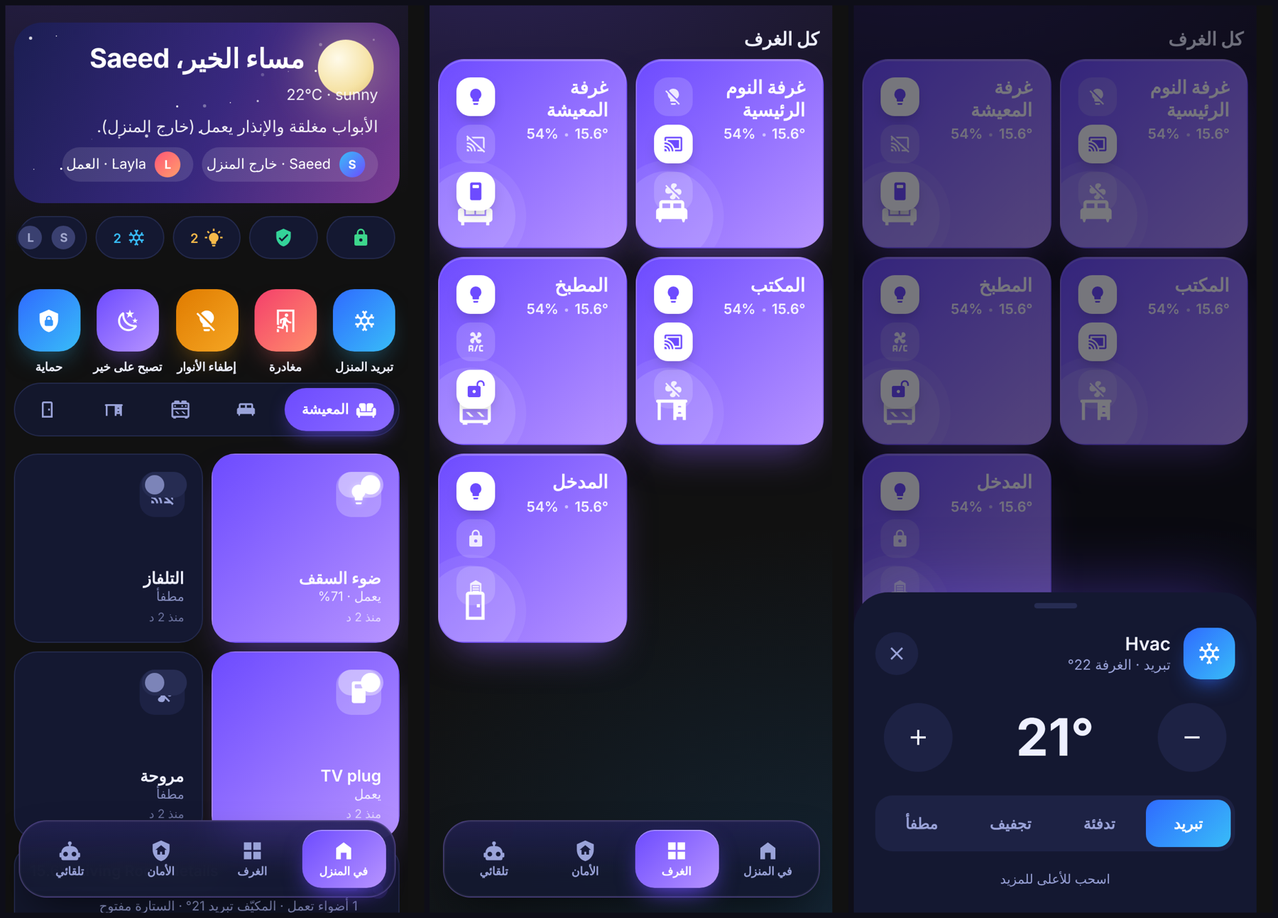
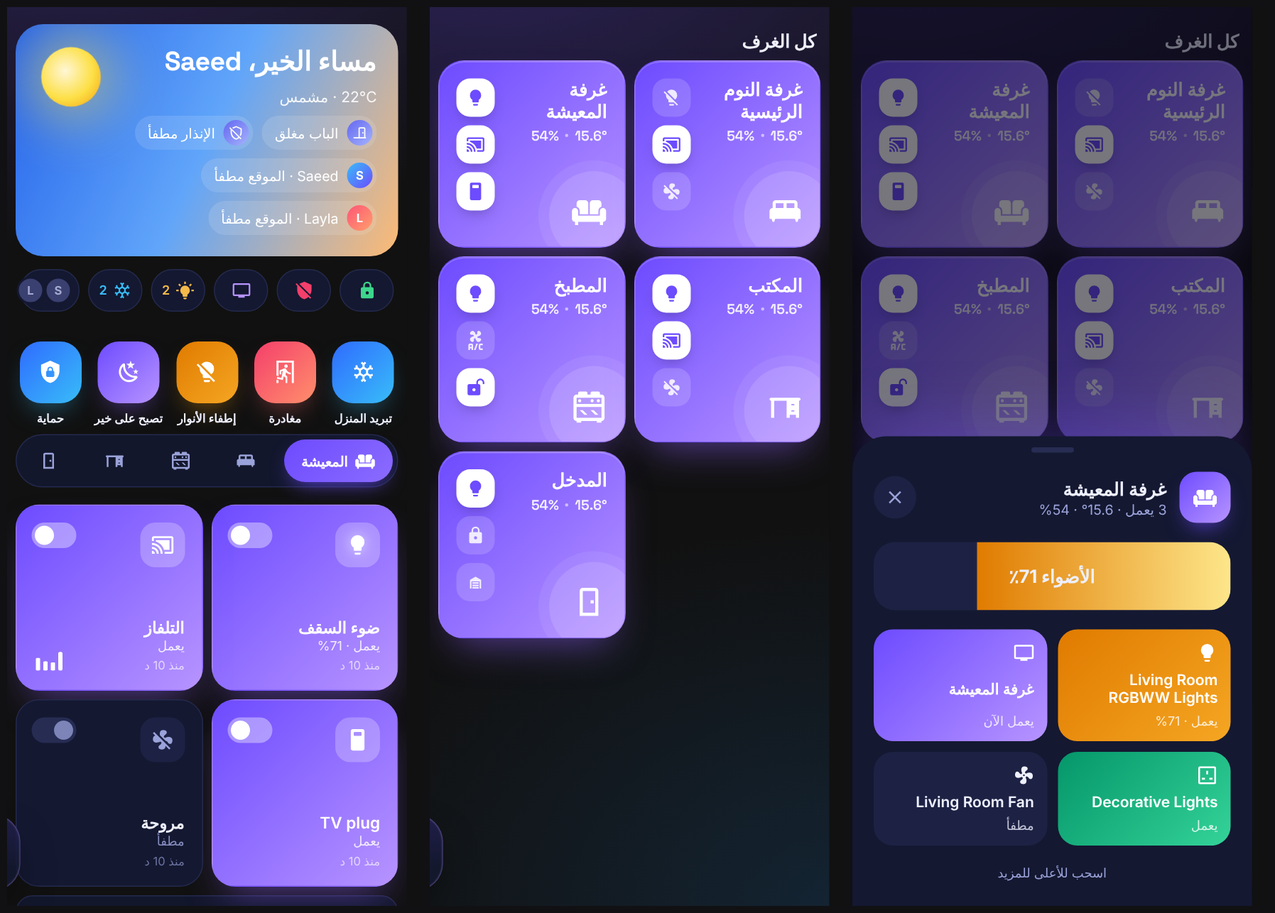
Right-to-left: mirror every card properly (fills, sliders, timelines, graphs, lock, swipes), more Arabic words, rules in tests/rtl.test.mjs; new Arabic picture

diff --git a/dist/roost-cards.js b/dist/roost-cards.js
@@ -3146,7 +3146,8 @@ class RoostRooms extends RoostBase {
           if (x0 == null) return;
           const dx = e.changedTouches[0].clientX - x0, dy = e.changedTouches[0].clientY - y0;
           x0 = null;
-          if (Math.abs(dx) > 60 && Math.abs(dy) < 40) this.go(this._active + (dx < 0 ? 1 : -1));
+          // in Arabic the next room is to the left, so swiping right brings it in
+          if (Math.abs(dx) > 60 && Math.abs(dy) < 40) this.go(this._active + ((rtlX(box, 0) === 1 ? dx > 0 : dx < 0) ? 1 : -1));
         }, { passive: true });
       }
     });
@@ -3418,7 +3419,7 @@ class RoostCurtain extends RoostBase {
     const trk = this.shadowRoot.querySelector(".trk");
     if (trk) {
       // drag along the bar to choose how far open; a tap while it moves stops it
-      const at = (e) => { const r = trk.getBoundingClientRect(); return Math.round(Math.max(0, Math.min(100, ((e.clientX - r.left) / (r.width || 1)) * 100)) / 5) * 5; };
+      const at = (e) => { const r = trk.getBoundingClientRect(); return Math.round(Math.max(0, Math.min(100, rtlX(trk, (e.clientX - r.left) / (r.width || 1)) * 100)) / 5) * 5; };
       let drag = null;
       trk.addEventListener("pointerdown", (e) => {
         const v = this.view(this.st());
@@ -4151,22 +4152,24 @@ class RoostPrayer extends ticking(RoostBase, 15000) {
     } catch (e) { return { day: 0, month: 0, year: 0, name: "", nameAr: "" }; }
   }
 
+  // Arabic prayer names when chosen, or when the whole dashboard is in Arabic (unless English names were chosen)
+  arNames() { const n = this._config.names; return n === "arabic" || (n !== "english" && n !== "both" && RoostLang.pick(this._hass, this._config) === "ar"); }
   label(k, date) {
     const c = this._config, fri = c.jumuah && k === "dhuhr" && date.getDay() === 5;
     const en = fri ? "Jumu'ah" : PRAYER_NAMES[k][0], ar = fri ? "الجمعة" : PRAYER_NAMES[k][1];
-    return c.names === "arabic" ? ar : c.names === "both" ? `${en} · ${ar}` : en;
+    return this.arNames() ? ar : c.names === "both" ? `${en} · ${ar}` : en;
   }
 
   clock(d) {
     const c = this._config;
     let s = d.toLocaleTimeString(c.hour24 ? "en-GB" : "en-US", { hour: "numeric", minute: "2-digit", hour12: !c.hour24 });
-    if (c.names === "arabic" && !c.hour24) s = s.replace("AM", "ص").replace("PM", "م");
+    if (this.arNames() && !c.hour24) s = s.replace("AM", "ص").replace("PM", "م");
     return c.numerals === "eastern" ? easternDigits(s) : s;
   }
 
   left(ms) {
     const m = Math.max(0, Math.round(ms / 60000)), h = Math.floor(m / 60), r = m % 60;
-    const ar = this._config.names === "arabic", s = ar ? (h ? `${h} س ${r} د` : `${r} دقيقة`) : h ? `${h}h ${r}m` : `${r} min`;
+    const ar = this.arNames(), s = ar ? (h ? `${h} س ${r} د` : `${r} دقيقة`) : h ? `${h}h ${r}m` : `${r} min`;
     return this._config.numerals === "eastern" ? easternDigits(s) : s;
   }
 
@@ -4187,7 +4190,7 @@ class RoostPrayer extends ticking(RoostBase, 15000) {
       prevAt = ri > 0 ? today[real[ri - 1]] : nextAt.toDateString() === now.toDateString() ? new Date(last.getTime() - 86400e3) : last;
     }
     const span = nextAt && prevAt ? Math.max(1, nextAt - prevAt) : 1, done = nextAt ? Math.min(1, Math.max(0, (now - prevAt) / span)) : 0;
-    const hj = this.hijri(now), hjNow = hj, ar = c.names === "arabic";
+    const hj = this.hijri(now), hjNow = hj, ar = this.arNames();
     const greg = now.toLocaleDateString(ar ? `ar-u-nu-${c.numerals === "eastern" ? "arab" : "latn"}` : "en-GB", { weekday: "long", day: "numeric", month: "long" });
     const hijriText = hj.year ? (ar ? `${easternDigits(hj.day)} ${hj.nameAr} ${easternDigits(hj.year)}` : `${hj.day} ${hj.name} ${hj.year}`) : "";
     const soon = nextAt && nextAt - now < 15 * 60000;
@@ -4780,7 +4783,7 @@ class RoostMedia extends RoostBase {
     const bar = root.querySelector(".vol");
     if (bar) {
       const set = (ev, done) => {
-        const r = bar.getBoundingClientRect(), f = Math.max(0, Math.min(1, (ev.clientX - r.left) / r.width));
+        const r = bar.getBoundingClientRect(), f = Math.max(0, Math.min(1, rtlX(bar, (ev.clientX - r.left) / r.width)));
         bar.querySelector(".f").style.width = `${(f * 100).toFixed(0)}%`;
         bar.querySelector(".v").textContent = `${Math.round(f * 100)}%`;
         if (done) this.call("media_player", "volume_set", { entity_id: vid, volume_level: Math.round(f * 100) / 100 });
@@ -5039,7 +5042,7 @@ class RoostRoom extends RoostBase {
       .l{font-size:12px;line-height:1.35;opacity:.75;margin-top:4px}
       .halo{position:absolute;left:-${Math.round(hsz * 0.16)}px;bottom:-${Math.round(hsz * 0.16)}px;width:${hsz}px;height:${hsz}px;border-radius:50%;display:flex;align-items:center;justify-content:center;
         background:${light ? "rgba(255,255,255,.18)" : `color-mix(in srgb, ${g[0]} 22%, transparent)`};color:${light || this.dark ? "#FFFFFF" : g[0]};box-shadow:0 0 0 ${Math.round(hsz * 0.12)}px ${light ? "rgba(255,255,255,.07)" : `color-mix(in srgb, ${g[0]} 9%, transparent)`}}
-      .halo ha-icon{--mdc-icon-size:${Math.round(hsz * 0.42)}px;transform:translate(${Math.round(hsz * 0.05)}px,-${Math.round(hsz * 0.05)}px)}
+      .halo ha-icon{--mdc-icon-size:${Math.round(hsz * 0.42)}px;position:relative;left:${Math.round(hsz * 0.05)}px;top:-${Math.round(hsz * 0.05)}px}
       .halo .ad{position:absolute;top:${Math.round(hsz * 0.14)}px;right:${Math.round(hsz * 0.14)}px;width:12px;height:12px;border-radius:50%;background:#10B981;border:2px solid ${light ? "rgba(255,255,255,.9)" : p.panel}}
       .halo .bd{position:absolute;top:${Math.round(hsz * 0.1)}px;right:${Math.round(hsz * 0.1)}px;min-width:20px;height:20px;padding:0 6px;box-sizing:border-box;border-radius:10px;background:#FFFFFF;color:${g[0]};font-style:normal;font-size:12px;font-weight:700;display:flex;align-items:center;justify-content:center;box-shadow:0 2px 6px rgba(0,0,0,.25)}
       .qs{display:flex;flex-direction:column;gap:8px;position:relative;z-index:1}
@@ -5476,7 +5479,7 @@ class RoostLight extends RoostBase {
         ${dims ? `<span class="pc num" data-tw="pc">${pct}%</span>` : ""}<span class="sw ${on ? "on" : ""}" role="switch" aria-checked="${on}"></span></div>
       ${dims ? `<div class="bar" role="slider" aria-valuenow="${fin(pct)}"><span class="f" data-bar="br" style="width:${fin(pct)}%"></span><ha-icon icon="mdi:brightness-6"></ha-icon></div>` : ""}
       ${(temps && c.show_presets) || (colours && c.show_colors) ? `<div class="chips">
-        ${temps && c.show_presets ? [["Warm", 2700, "#FFB45A"], ["Neutral", 4000, "#FFE7C2"], ["Cool", 6000, "#CFE6FF"]].map(([w, k, col]) => `<button data-k="${k}"><i style="background:${col}"></i>${w}</button>`).join("") : ""}
+        ${temps && c.show_presets ? [["Warm", 2700, "#FFB45A"], ["Neutral", 4000, "#FFE7C2"], ["Cool", 6000, "#CFE6FF"]].map(([w, k, col]) => `<button data-k="${k}"><i style="background:${col}"></i><span data-ar="${{ Warm: "دافئ", Neutral: "محايد", Cool: "بارد" }[w]}">${w}</span></button>`).join("") : ""}
         ${colours && c.show_colors ? ["#FF5A5F", "#FFB020", "#3DD68C", "#38BDF8", "#8B6CFF", "#F472B6"].map((col) => `<button class="dotc" data-rgb="${col}" aria-label="Colour"><i style="background:${col}"></i></button>`).join("") : ""}</div>` : ""}
     </div>`;
     const root = this.shadowRoot;
@@ -5491,7 +5494,7 @@ class RoostLight extends RoostBase {
     const bar = root.querySelector(".bar");
     if (bar) {
       const set = (ev, done) => {
-        const r = bar.getBoundingClientRect(), f = Math.max(0, Math.min(1, (ev.clientX - r.left) / r.width));
+        const r = bar.getBoundingClientRect(), f = Math.max(0, Math.min(1, rtlX(bar, (ev.clientX - r.left) / r.width)));
         bar.querySelector(".f").style.width = `${Math.round(f * 100)}%`;
         const pc = root.querySelector(".pc"); if (pc) pc.textContent = `${Math.round(f * 100)}%`;
         if (done) this.call("light", f < 0.01 ? "turn_off" : "turn_on", f < 0.01 ? { entity_id: c.entity } : { entity_id: c.entity, brightness_pct: Math.max(1, Math.round(f * 100)) });
@@ -5709,7 +5712,7 @@ class RoostGraph extends RoostBase {
       .top{display:flex;justify-content:space-between;align-items:baseline;gap:10px}
       .n{font-size:15px;font-weight:600}
       .v{font-size:24px;font-weight:700}
-      svg{display:block;width:100%;height:${H}px}
+      svg{display:block;width:100%;height:${H}px;/*mirror*/}
       .gw{position:relative}
       .nd{position:absolute;width:10px;height:10px;margin:-5px 0 0 -5px;border-radius:50%;background:${g[1]};box-shadow:0 0 0 3px ${p.panel.startsWith("rgba") ? (this.dark ? "#141831" : "#fff") : p.panel}}
       .nd i{position:absolute;inset:0;border-radius:50%;background:${g[1]};animation:roost-ping 2s ease-out infinite}
@@ -6025,10 +6028,10 @@ class RoostRemote extends RoostBase {
       .k.no{opacity:.28;cursor:default}
       .k.pw{width:48px;height:48px;flex:none;background:linear-gradient(135deg,#F43F6B,#FF8F6B);color:#fff;border-color:transparent;box-shadow:0 10px 22px -10px rgba(244,63,107,.7)}
       .pad{position:relative;width:min(190px,62cqw);aspect-ratio:1;border-radius:50%;background:${p.inset};border:1px solid ${p.border}}
-      .pad .k{position:absolute;background:transparent;border:0;transform:translate(-50%,-50%)}
-      .pad .k:active{transform:translate(-50%,-50%) scale(.88)}
-      .pad .up{left:50%;top:17%}.pad .down{left:50%;top:83%}.pad .left{left:17%;top:50%}.pad .right{left:83%;top:50%}
-      .pad .ok{left:50%;top:50%;width:38%;height:38%;background:linear-gradient(135deg,${g[0]},${g[1]});color:${g[3]};box-shadow:0 12px 26px -10px ${g[2]}}
+      .pad .k{/*ltr*/position:absolute;background:transparent;border:0;transform:translate(-50%,-50%)}
+      .pad .k:active{/*ltr*/transform:translate(-50%,-50%) scale(.88)}
+      .pad .up{/*ltr*/left:50%;top:17%}.pad .down{/*ltr*/left:50%;top:83%}.pad .left{/*ltr*/left:17%;top:50%}.pad .right{/*ltr*/left:83%;top:50%}
+      .pad .ok{/*ltr*/left:50%;top:50%;width:38%;height:38%;background:linear-gradient(135deg,${g[0]},${g[1]});color:${g[3]};box-shadow:0 12px 26px -10px ${g[2]}}
       .row{display:flex;gap:min(14px,3cqw);justify-content:center;width:100%;flex-wrap:wrap}
       .rock{display:flex;flex-direction:column;align-items:center;gap:4px;padding:6px;border-radius:999px;background:${p.inset};border:1px solid ${p.border}}
       .rock .k{background:transparent;border:0;width:min(48px,13cqw);height:min(48px,13cqw)}
@@ -9962,13 +9965,14 @@ class RoostLock extends RoostBase {
       .n{font-size:15px;font-weight:600}
       .w{font-size:20px;font-weight:700}
       .d{font-size:13px;color:${p.muted}}
-      .track{/*ltr*/direction:ltr;position:relative;height:58px;border-radius:999px;background:${p.inset};border:1px solid ${p.border};overflow:hidden;touch-action:none;user-select:none}
+      .track{position:relative;height:58px;border-radius:999px;background:${p.inset};border:1px solid ${p.border};overflow:hidden;touch-action:none;user-select:none}
       .hint{position:absolute;inset:0;display:flex;align-items:center;justify-content:center;font-size:13px;font-weight:600;color:${p.muted};animation:roost-breathe 2.2s ease-in-out infinite}
-      .hint{/*ltr*/padding-left:50px}
+      .hint{padding-left:50px}
       .short{display:none}
       @container (max-width: 250px){:host .long{display:none}:host .short{display:inline}}
-      .knob{/*ltr*/position:absolute;left:5px;top:5px;width:48px;height:48px;border-radius:50%;background:linear-gradient(135deg,${g[0]},${g[1]});color:${g[3]};display:flex;align-items:center;justify-content:center;cursor:grab;box-shadow:0 6px 16px -6px ${g[2]}}
+      .knob{position:absolute;left:5px;top:5px;width:48px;height:48px;border-radius:50%;background:linear-gradient(135deg,${g[0]},${g[1]});color:${g[3]};display:flex;align-items:center;justify-content:center;cursor:grab;box-shadow:0 6px 16px -6px ${g[2]}}
       .knob ha-icon{--mdc-icon-size:24px}
+      :host([dir=rtl]) .knob ha-icon{transform:scaleX(-1)}
       .wait{position:relative;height:58px;border-radius:999px;background:${p.inset};border:1px solid ${p.border};overflow:hidden;display:flex;align-items:center;justify-content:center;font-size:14px;font-weight:600;color:${p.muted}}
       .wait::before{content:"";position:absolute;top:0;bottom:0;width:40%;background:linear-gradient(90deg,transparent,${ACTIVE[2]},transparent);opacity:.5;animation:roost-sweep 1.2s linear infinite}
       @keyframes roost-sweep{from{left:-40%}to{left:100%}}
@@ -9984,12 +9988,13 @@ class RoostLock extends RoostBase {
     r.querySelector(".lockb")?.addEventListener("click", () => { this.vibrate(); this.call(cover ? "cover" : "lock", cover ? "close_cover" : "lock", { entity_id: c.entity }); });
     const track = r.querySelector(".track"), knob = r.querySelector(".knob");
     if (track && knob) {
-      let x0 = null, max = 0;
-      knob.addEventListener("pointerdown", (e) => { knob.setPointerCapture(e.pointerId); x0 = e.clientX; max = track.clientWidth - knob.clientWidth - 10; });
-      knob.addEventListener("pointermove", (e) => { if (x0 == null) return; knob.style.transform = `translateX(${Math.max(0, Math.min(max, e.clientX - x0))}px)`; });
+      // in Arabic the knob starts on the right and slides to the left
+      let x0 = null, max = 0, dir = 1;
+      knob.addEventListener("pointerdown", (e) => { knob.setPointerCapture(e.pointerId); x0 = e.clientX; max = track.clientWidth - knob.clientWidth - 10; dir = rtlX(track, 0) === 1 ? -1 : 1; });
+      knob.addEventListener("pointermove", (e) => { if (x0 == null) return; knob.style.transform = `translateX(${dir * Math.max(0, Math.min(max, dir * (e.clientX - x0)))}px)`; });
       knob.addEventListener("pointerup", (e) => {
         if (x0 == null) return;
-        const d = e.clientX - x0; x0 = null;
+        const d = dir * (e.clientX - x0); x0 = null;
         if (d >= max * 0.85) { this.vibrate(30); this.call(cover ? "cover" : "lock", cover ? "open_cover" : "unlock", { entity_id: c.entity }); }
         else { try { knob.animate([{ transform: knob.style.transform }, { transform: "translateX(0)" }], { duration: 250, easing: "ease-out" }); } catch (err) { /* jumps back */ } }
         knob.style.transform = "translateX(0)";
@@ -10291,9 +10296,20 @@ const AR_WORDS = {
   "Feed now": "أطعمه الآن", "Back to dock": "العودة للقاعدة", "Find it": "ابحث عنه", "Start cleaning": "ابدأ التنظيف", "Docked": "في القاعدة", "Cleaning": "ينظّف", "Returning": "يعود",
   "No reading": "لا توجد قراءة", "Not working right now": "لا يعمل حالياً", "Loading": "جارٍ التحميل", "Nothing planned": "لا شيء مخطط", "The shopping list is empty": "قائمة التسوق فارغة",
   "Volume": "الصوت", "Source": "المصدر", "Speed": "السرعة", "Swing": "تأرجح", "Mute": "كتم", "Previous": "السابق", "Next": "التالي",
+  "Too high": "مرتفع جداً", "Too low": "منخفض جداً", "same time": "التوقيت نفسه", "AM": "ص", "PM": "م", "SET TO": "مضبوط على", "Set to ": "مضبوط على", "Playing": "يعمل الآن", "Paused": "متوقف مؤقتاً",
+  "yesterday": "أمس", "Add an item": "أضف عنصراً", "All day": "طوال اليوم", "Fresh": "منعش", "Stale": "خانق", "Breeze": "نسيم", "Doors and alarm": "الأبواب والإنذار", "LAST 24 HOURS": "آخر 24 ساعة",
+  "Shopping list": "قائمة التسوق", "No tasks": "لا مهام", "No chores": "لا أعمال منزلية", "Slide to": "اسحب لـ", "Wind": "الرياح",
+  "See all": "عرض الكل", "No history yet": "لا يوجد سجل بعد", "Power consumption": "استهلاك الطاقة", "Energy": "الطاقة", "humidity": "الرطوبة", "Sunset": "الغروب", "Room on": "الغرفة تعمل",
+  "Slide to unlock ›››": "اسحب لفتح القفل ›››", "Slide to open ›››": "اسحب للفتح ›››", "Lowest": "الأدنى", "Highest": "الأعلى", "Next prayer": "الصلاة القادمة",
+  "Warm": "دافئ", "Neutral": "محايد", "Cool white": "بارد", "Comfortable": "مريح", "Comfy": "مريح", "Cold": "بارد", "Hot": "حار", "Humid": "رطب",
   "Language": "اللغة", "English": "English", "Arabic": "العربية", "Ready": "جاهز", "Done": "تم", "Upload": "رفع", "Download": "تنزيل", "Live": "مباشر", "Camera offline": "الكاميرا غير متصلة",
 };
+const AR_DAYS = "Monday|Tuesday|Wednesday|Thursday|Friday|Saturday|Sunday", AR_MONTHS = "January|February|March|April|May|June|July|August|September|October|November|December";
 const AR_PATTERNS = [
+  [new RegExp(`^(${AR_DAYS}) (\\d{1,2}) (${AR_MONTHS})$`), (m, d, n, mo) => `${AR_WORDS[d]} ${n} ${AR_WORDS[mo]}`], [new RegExp(`^(\\d{1,2}) (${AR_MONTHS})$`), (m, n, mo) => `${n} ${AR_WORDS[mo]}`],
+  [/^(Sunset|Sunrise) at (.+)$/, (m, a, t) => `${a === "Sunset" ? "الغروب" : "الشروق"} الساعة ${arWord(t) || t}`], [/^in (\d+)h (\d+)m$/, "بعد $1 س $2 د"], [/^room (.+)$/i, "الغرفة $1"], [/^at (\d.+)$/, (m, t) => `الساعة ${arWord(t) || t}`], [/^(\d+) devices?$/, "$1 أجهزة"], [/^([+−-]\d+)h$/, "$1 س"], [/^(\d+) people here$/, "$1 أشخاص هنا"], [/^1 person here$/, "شخص واحد هنا"],
+  [/^(\d+) to do$/, "$1 للإنجاز"], [/^Clear (\d+) ticked$/, "امسح $1 منجزة"], [/^Wind (.+)$/, "الرياح $1"], [/^Humidity (\d+)%$/, "الرطوبة $1٪"], [/^vs this time (.+)$/, "مقارنة بهذا الوقت $1"], [/^(\d+) open: (.+)$/, "$1 مفتوح: $2"], [/^(\d+) min$/, "$1 د"], [/^(\d+)h (\d+)m$/, "$1 س $2 د"], [/^Last (\d+) h$/, "آخر $1 س"], [/^in (\d+)h$/, "بعد $1 س"], [/^in (\d+)m$/, "بعد $1 د"],
+  [/^(\d+(?:\.\d+)?)% humidity$/, "الرطوبة $1٪"],
   [/^for (\d+) min$/, "منذ $1 د"], [/^for (\d+)h(?: (\d+)m)?$/, (m, h, mi) => `منذ ${h} س${mi ? ` ${mi} د` : ""}`], [/^for (\d+) days?$/, "منذ $1 يوم"],
   [/^(\d+) min ago$/, "قبل $1 د"], [/^(\d+) h ago$/, "قبل $1 س"], [/^(\d+) days? ago$/, "قبل $1 يوم"], [/^Since (.+) ago$/, (m, x) => `منذ ${arWord(x)}`], [/^Since (.+)$/, (m, x) => `منذ ${arWord(x)}`],
   [/^(\d+) lights? on$/, "$1 أضواء تعمل"], [/^(\d+) lights? are on$/, "$1 أضواء تعمل"], [/^(\d+) on$/, "$1 يعمل"], [/^(\d+) open$/, "$1 مفتوح"], [/^(\d+) home$/, "$1 في المنزل"], [/^(.+) is unlocked$/, "$1 غير مقفل"], [/^(\d+) more$/, "$1 أخرى"], [/^(\d+) of (\d+) on$/, "$1 من $2 يعمل"],
@@ -10305,6 +10321,7 @@ const AR_PATTERNS = [
   [/^(.+) is open$/, "$1 مفتوح"], [/^(.+) is on$/, "$1 يعمل"], [/^(\d+) doors or windows are open$/, "$1 أبواب أو نوافذ مفتوحة"], [/^(\d+) batteries are low$/, "$1 بطاريات منخفضة"], [/^(.+): battery low$/, "$1: البطارية منخفضة"],
   [/^Last ran (.+)$/, (m, x) => `آخر تشغيل ${arWord(x)}`], [/^(\d+(?:\.\d+)?)° outside$/, "$1° في الخارج"], [/^And it is (.+) outside$/, "والحرارة $1 في الخارج"], [/^At night$/, "في الليل"],
   [/(\d+(?:[.,]\d+)?) ?(AM|PM)$/, (m, t, ap) => `${t} ${ap === "AM" ? "ص" : "م"}`],
+  [/^([A-Z][A-Za-z ]+) (on|off|open|closed)$/, (m, x, st) => `${arWord(x) || x} ${AR_WORDS[st.charAt(0).toUpperCase() + st.slice(1)]}`],
 ];
 function arWord(x) {
   const s = String(x).trim(); if (!s) return x;
@@ -10314,6 +10331,8 @@ function arWord(x) {
   for (const [re, to] of AR_PATTERNS) if (re.test(s)) return s.replace(re, to);
   return null;
 }
+// a slider read in right-to-left: the start is on the right, so the finger's place is counted from the right
+const rtlX = (el, x) => { try { return getComputedStyle(el).direction === "rtl" ? 1 - x : x; } catch (e) { return x; } };
 const RoostLang = {
   pick(hass, cfg) {
     let v = cfg && cfg.language && cfg.language !== "auto" ? cfg.language : null;
@@ -10325,8 +10344,9 @@ const RoostLang = {
   line(t) {
     if (!/[A-Za-z]/.test(t)) return t;
     const lead = t.match(/^\s*/)[0], tail = t.match(/\s*$/)[0], core = t.trim();
-    const whole = arWord(core); if (whole) return lead + whole + tail;
+    // a line of parts (Monday 16 November · 3:20 PM) is translated part by part
     if (core.includes(" · ")) { const parts = core.split(" · ").map((x) => arWord(x) || x); return lead + parts.join(" · ") + tail; }
+    const whole = arWord(core); if (whole) return lead + whole + tail;
     return t;
   },
   apply(el, root, cfg) {
@@ -10336,12 +10356,14 @@ const RoostLang = {
     el.style.direction = "rtl"; el.setAttribute("dir", "rtl"); el.setAttribute("lang", "ar");
     if (!r) return;
     this.mirror(r, true);
+    this.flipMarks(r);
     const east = this.eastern(cfg || el._config), digits = (s) => (east ? s.replace(/[0-9]/g, (d) => "٠١٢٣٤٥٦٧٨٩"[d]).replace(/%/g, "٪") : s);
     const walk = document.createTreeWalker(r, NodeFilter.SHOW_TEXT, { acceptNode: (n) => (n.parentNode && /^(STYLE|SCRIPT)$/.test(n.parentNode.nodeName) ? NodeFilter.FILTER_REJECT : NodeFilter.FILTER_ACCEPT) });
     const nodes = []; while (walk.nextNode()) nodes.push(walk.currentNode);
     // a number with its unit (1240 L, 214 km, 3 h 57 min) keeps its order inside right-to-left text
     const iso = (v) => (/^\s*[-−+]?[\d٠-٩]/.test(v) && /[A-Za-zµ]/.test(v) && !/[\u0600-\u06FF\u2066]/.test(v) ? `\u2066${v}\u2069` : v);
-    for (const n of nodes) { const v = iso(digits(this.line(n.nodeValue))); if (v !== n.nodeValue) n.nodeValue = v; }
+    // a word with its own Arabic for this place (data-ar) uses it: "Cool" for a light is بارد, not تبريد
+    for (const n of nodes) { const own = n.parentNode?.dataset?.ar; const v = own || iso(digits(this.line(n.nodeValue))); if (v !== n.nodeValue) n.nodeValue = v; }
     r.querySelectorAll("[aria-label],[title],[placeholder]").forEach((x) => { for (const a of ["aria-label", "title", "placeholder"]) { const v = x.getAttribute(a); if (v) { const t = this.line(v); if (t !== v) x.setAttribute(a, t); } } });
   },
   // right to left: everything placed by a side (a corner button, a badge, a bar) moves to the other side, so the
@@ -10353,21 +10375,24 @@ const RoostLang = {
     return css.replace(/([^{}]*)\{([^{}]*)\}/g, (m, sel, body) => {
       // marked to stay as drawn (a slide-to-unlock track, things placed by the card's own sums)
       if (/\/\*ltr\*\//.test(sel + body)) return m;
+      // a drawing that runs along time (a graph's curve) is drawn mirrored, so it starts on the right
+      if (/\/\*mirror\*\//.test(body)) return `${sel}{${body.replace("/*mirror*/", "transform:scaleX(-1);")}}`;
       const sides = [...body.matchAll(/(?:^|[;\s])(left|right)\s*:\s*([^;]+)/g)];
       // something centred stays centred
       if (sides.some((x) => /^50%/.test(x[2].trim()))) return m;
       // placed by the card's own sums (no side here): leave it
       if (!sides.length && /position\s*:\s*(absolute|fixed)/.test(body)) return m;
       let b = body;
-      // one side only, at 0: a fill growing from that edge (bars and sliders follow the finger): it stays
-      if (!(sides.length === 1 && /^0(px)?\s*(!important)?$/.test(sides[0][2].trim())) && sides.length) {
+      // everything placed from a side moves to the other side, fills included: in Arabic a bar fills from the right
+      // and its slider is read from the right too (see rtlX)
+      if (sides.length) {
         b = b.replace(/(^|[;\s])(left|right)(\s*:)/g, (q, a, side, c) => a + swap(side) + c)
           // a knob that slides along from its side slides the other way
           .replace(/translateX\((-?)(\d+(?:\.\d+)?px)\)/g, (q, neg, v) => `translateX(${neg ? "" : "-"}${v})`);
       }
       // a switch that is on: its knob slides the other way
       if (!sides.length && /\.on\b/.test(sel) && /transform\s*:\s*translateX\(\d+(?:\.\d+)?px\)\s*(;|$)/.test(b.trim() + ";")) b = b.replace(/translateX\((\d+(?:\.\d+)?px)\)/g, "translateX(-$1)");
-      b = b.replace(/(margin|padding|border)-(left|right)/g, (q, a, side) => `${a}-${swap(side)}`)
+      b = b.replace(/linear-gradient\(90deg/g, "linear-gradient(270deg").replace(/(margin|padding|border)-(left|right)/g, (q, a, side) => `${a}-${swap(side)}`)
         .replace(/border-(top|bottom)-(left|right)-radius/g, (q, v, side) => `border-${v}-${swap(side)}-radius`)
         .replace(/(text-align|float)\s*:\s*(left|right)/g, (q, a, side) => `${a}:${swap(side)}`)
         .replace(/(^|[;\s])(margin|padding)\s*:\s*([^;!]+?)(\s*!important)?(?=;|$)/g, (q, a, k, v, imp) => four(v, (x) => `${a}${k}:${x[0]} ${x[3]} ${x[2]} ${x[1]}${imp || ""}`) || q)
@@ -10382,6 +10407,21 @@ const RoostLang = {
       if (st.__roostLtr !== undefined && now !== st.__roostRtl) st.__roostLtr = undefined; // the card wrote new styles
       if (on) { if (st.__roostLtr === undefined) { st.__roostLtr = now; st.__roostRtl = this.flipCss(now); } if (st.textContent !== st.__roostRtl) st.textContent = st.__roostRtl; }
       else if (st.__roostLtr !== undefined) { if (st.textContent !== st.__roostLtr) st.textContent = st.__roostLtr; st.__roostLtr = undefined; }
+    });
+  },
+  // Marks placed along a scale from its start (a prayer or day timeline, a good-range bar) carry their place in their
+  // own style as left: N%. In Arabic the scale starts on the right, so each mark moves to right: N%; a mark centred on
+  // its place (translateX(-50%)) is centred from the other side.
+  flipMarks(r) {
+    r.querySelectorAll('[style*="left:"]').forEach((n) => {
+      const v = n.style.left;
+      if (!/%$/.test(v) || n.style.right) return;
+      const cs = getComputedStyle(n), ml = cs.marginLeft, mr = cs.marginRight;
+      n.style.left = ""; n.style.right = v;
+      if (ml !== mr) { n.style.marginLeft = mr; n.style.marginRight = ml; } // a mark centred with a margin stays centred
+      const t = getComputedStyle(n).transform;
+      const m = t && t !== "none" ? t.match(/matrix\(([^)]+)\)/) : null;
+      if (m) { const tx = Number(m[1].split(",")[4]); if (tx < 0 && Math.abs(Math.abs(tx) - n.offsetWidth / 2) < 2) n.style.transform = "translateX(50%)"; }
     });
   },
   cards: new Set(),
@@ -10755,7 +10795,7 @@ const RoostSheet = {
       .seg{display:grid;gap:4px;padding:4px;border-radius:16px;background:${p.inset}}
       .seg button{height:44px;border-radius:12px;border:0;background:transparent;color:${p.muted};font-size:14px;font-weight:600}
       .seg button.on{background:linear-gradient(135deg,${g[0]},${g[1]});color:#FFFFFF}
-      .sens{display:flex;align-items:flex-end;gap:16px}.sens svg{flex:1;height:60px;min-width:0}
+      .sens{display:flex;align-items:flex-end;gap:16px}.sens svg{flex:1;height:60px;min-width:0;/*mirror*/}
       .note{font-size:14px;color:${p.muted}}
       .mt{font-size:15px;font-weight:600;text-align:center}.mt span{color:${p.muted};font-weight:500}
       .more{border:0;background:none;color:${p.muted};font-size:12px;padding:0;align-self:center}
@@ -10767,7 +10807,7 @@ const RoostSheet = {
       .tiles{display:grid;grid-template-columns:repeat(2,minmax(0,1fr));gap:10px}.tiles button{min-height:72px;border-radius:18px;border:0;padding:12px;background:${p.inset};color:${p.text};display:flex;flex-direction:column;align-items:flex-start;justify-content:space-between;gap:6px;text-align:left;--mdc-icon-size:20px}
       .tiles button span{font-size:14px;font-weight:600}.tiles button small{font-size:12px;opacity:.8}.tiles button.on{color:#FFFFFF}
       .stats{display:grid;grid-template-columns:repeat(2,minmax(0,1fr));gap:8px}.stats div{border-radius:16px;background:${p.inset};padding:10px 12px;display:flex;flex-direction:column;gap:3px;min-width:0}.stats span{font-size:12px;color:${p.muted}}.stats b{font-size:15px;font-weight:600;overflow-wrap:anywhere}
-      .chart{border-radius:18px;background:${p.inset};padding:10px 10px 6px}.chart svg{width:100%;height:120px;display:block}
+      .chart{border-radius:18px;background:${p.inset};padding:10px 10px 6px}.chart svg{width:100%;height:120px;display:block;/*mirror*/}
       .ax{display:flex;justify-content:space-between;font-size:11px;color:${p.muted};padding:4px 2px 0}
       .strip{position:relative;height:28px;border-radius:10px;background:${p.inset};overflow:hidden}.strip i{position:absolute;top:0;bottom:0}
       .tl small{color:${p.muted};font-size:12px}
@@ -10867,7 +10907,7 @@ const RoostSheet = {
     // drag the bars: the value follows the finger and is sent when it lets go
     root.querySelectorAll("[data-bar]").forEach((bar) => {
       const fill = bar.querySelector("i"), label = bar.querySelector("b");
-      const at = (e) => Math.max(0, Math.min(100, Math.round(((e.clientX - bar.getBoundingClientRect().left) / bar.clientWidth) * 100)));
+      const at = (e) => Math.max(0, Math.min(100, Math.round(rtlX(bar, (e.clientX - bar.getBoundingClientRect().left) / bar.clientWidth) * 100)));
       let v = null;
       const word = (x) => (bar.dataset.bar === "num" ? `${fmt(Number(a.min ?? 0) + (Number(a.max ?? 100) - Number(a.min ?? 0)) * x / 100, 0)}${unitGap(a.unit_of_measurement || "")}` : `${x}%`);
       bar.addEventListener("pointerdown", (e) => { el.busy = true; bar.setPointerCapture(e.pointerId); v = at(e); fill.style.width = `${v}%`; label.textContent = word(v); });
@@ -11534,7 +11574,7 @@ class RoostSensors extends RoostBase {
       .v{font-weight:700;line-height:1;letter-spacing:-.5px;font-size:15px}
       .v small{font-size:13px;font-weight:600;color:${p.muted};margin-left:1px;letter-spacing:0}
       .tr{font-size:11px;font-weight:600;color:${p.muted};white-space:nowrap}
-      .sp{display:block;width:100%;height:34px}
+      .sp{display:block;width:100%;height:34px;/*mirror*/}
       .rg{display:grid;grid-template-columns:auto 1fr auto;align-items:center;gap:8px;font-size:11px;color:${p.muted}}
       .rb{position:relative;height:4px;border-radius:999px;background:${p.track}}
       .rb i,.scb i{position:absolute;top:50%;border-radius:50%;background:${this.dark ? "#EEF0FF" : "#FFFFFF"}}
@@ -13114,7 +13154,7 @@ class RoostTour extends RoostBase {
     }));
     ctl.querySelectorAll("[data-bar]").forEach((bar) => {
       const fill = bar.querySelector("i"), label = bar.querySelector("b"), a = st.attributes; let v = null;
-      const pos = (e) => { const r = bar.getBoundingClientRect(), x = (e.clientX - r.left) / bar.clientWidth; return Math.max(0, Math.min(100, Math.round((getComputedStyle(bar).direction === "rtl" ? 1 - x : x) * 100))); };
+      const pos = (e) => { const r = bar.getBoundingClientRect(), x = (e.clientX - r.left) / bar.clientWidth; return Math.max(0, Math.min(100, Math.round(rtlX(bar, x) * 100))); };
       const word = (x) => (bar.dataset.bar === "num" ? `${fmt(Number(a.min ?? 0) + (Number(a.max ?? 100) - Number(a.min ?? 0)) * x / 100, 0)}${unitGap(a.unit_of_measurement || "")}` : `${x}%`);
       const show = () => { fill.style.width = `${v}%`; label.textContent = word(v); if (this.pan && bar.dataset.bar === "light") this.pan.root.querySelector(".sc").style.setProperty("--on", v ? (0.25 + 0.75 * v / 100).toFixed(2) : "0"); if (this.pan && bar.dataset.bar === "cover") this.pan.want.open = v / 100; };
       bar.addEventListener("pointerdown", (e) => { e.stopPropagation(); if (this.pan) this.pan.busy = true; try { bar.setPointerCapture(e.pointerId); } catch (x) { /* a pointer that already ended */ } v = pos(e); show(); });

diff --git a/CHANGELOG.md b/CHANGELOG.md
@@ -6,6 +6,8 @@ Every version of Roost Cards, newest first.
 
 - **The bar looks the same on every page by itself.** The bottom bar and the top bar on every page now follow the look of the bar on the dashboard's first page (glass, blur, colours, size, shape), while each page keeps its own buttons. Change the first page's bar and every page changes with it. A bar that should look different can turn on **Its own look**. While editing, each bar shows its own settings.
 
+- **Arabic and other right-to-left languages, checked card by card.** The big room icon of the halo room card sits bottom right; every bar fills from the right and its slider follows the finger the right way; prayer and day timelines and good-range bars start on the right; graphs and small trend lines run from the right; the lock slides to the left; swiping between rooms goes the other way. A TV remote's direction pad and the thermostat and fan dials stay as they are, like real ones. Many more words are in Arabic: dates, sunset, "See all", "in 4 h 35 min", room summaries, graphs, the lock, the light's Warm / Neutral / Cool, and more. These rules now run with every test.
+
 ## 1.29.2
 
 - **Safer with unusual names and values.** Everything the cards show that comes from Home Assistant (names, states, attributes such as temperatures, units, modes, colours, battery levels and positions) and every card setting is now checked before it is drawn: text is escaped, numbers must be real numbers, colours must be real colours, and pictures and fonts can only hold what an address or a font name needs. A name or value with odd characters now just shows as text.
